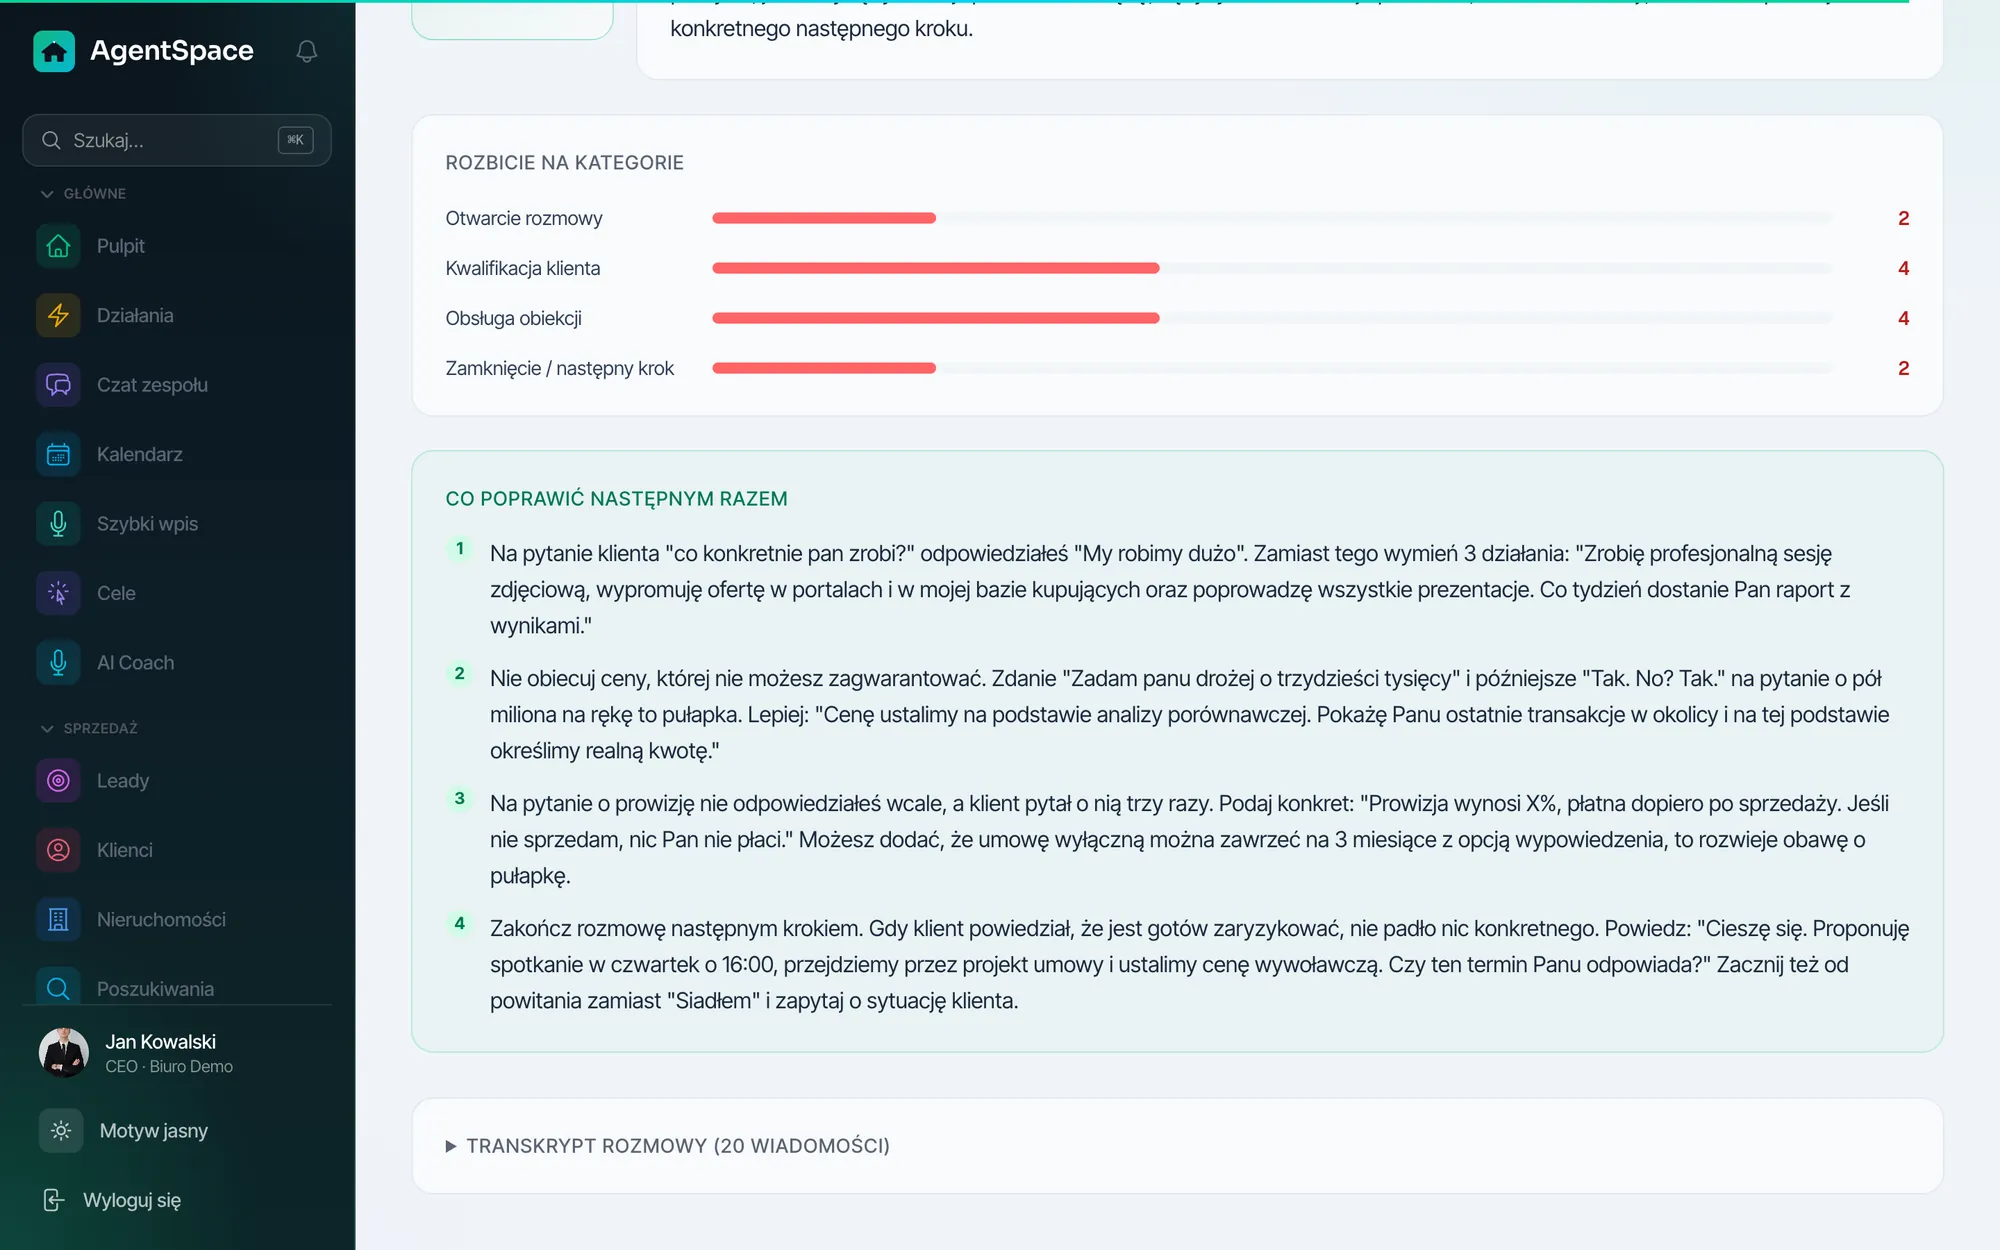
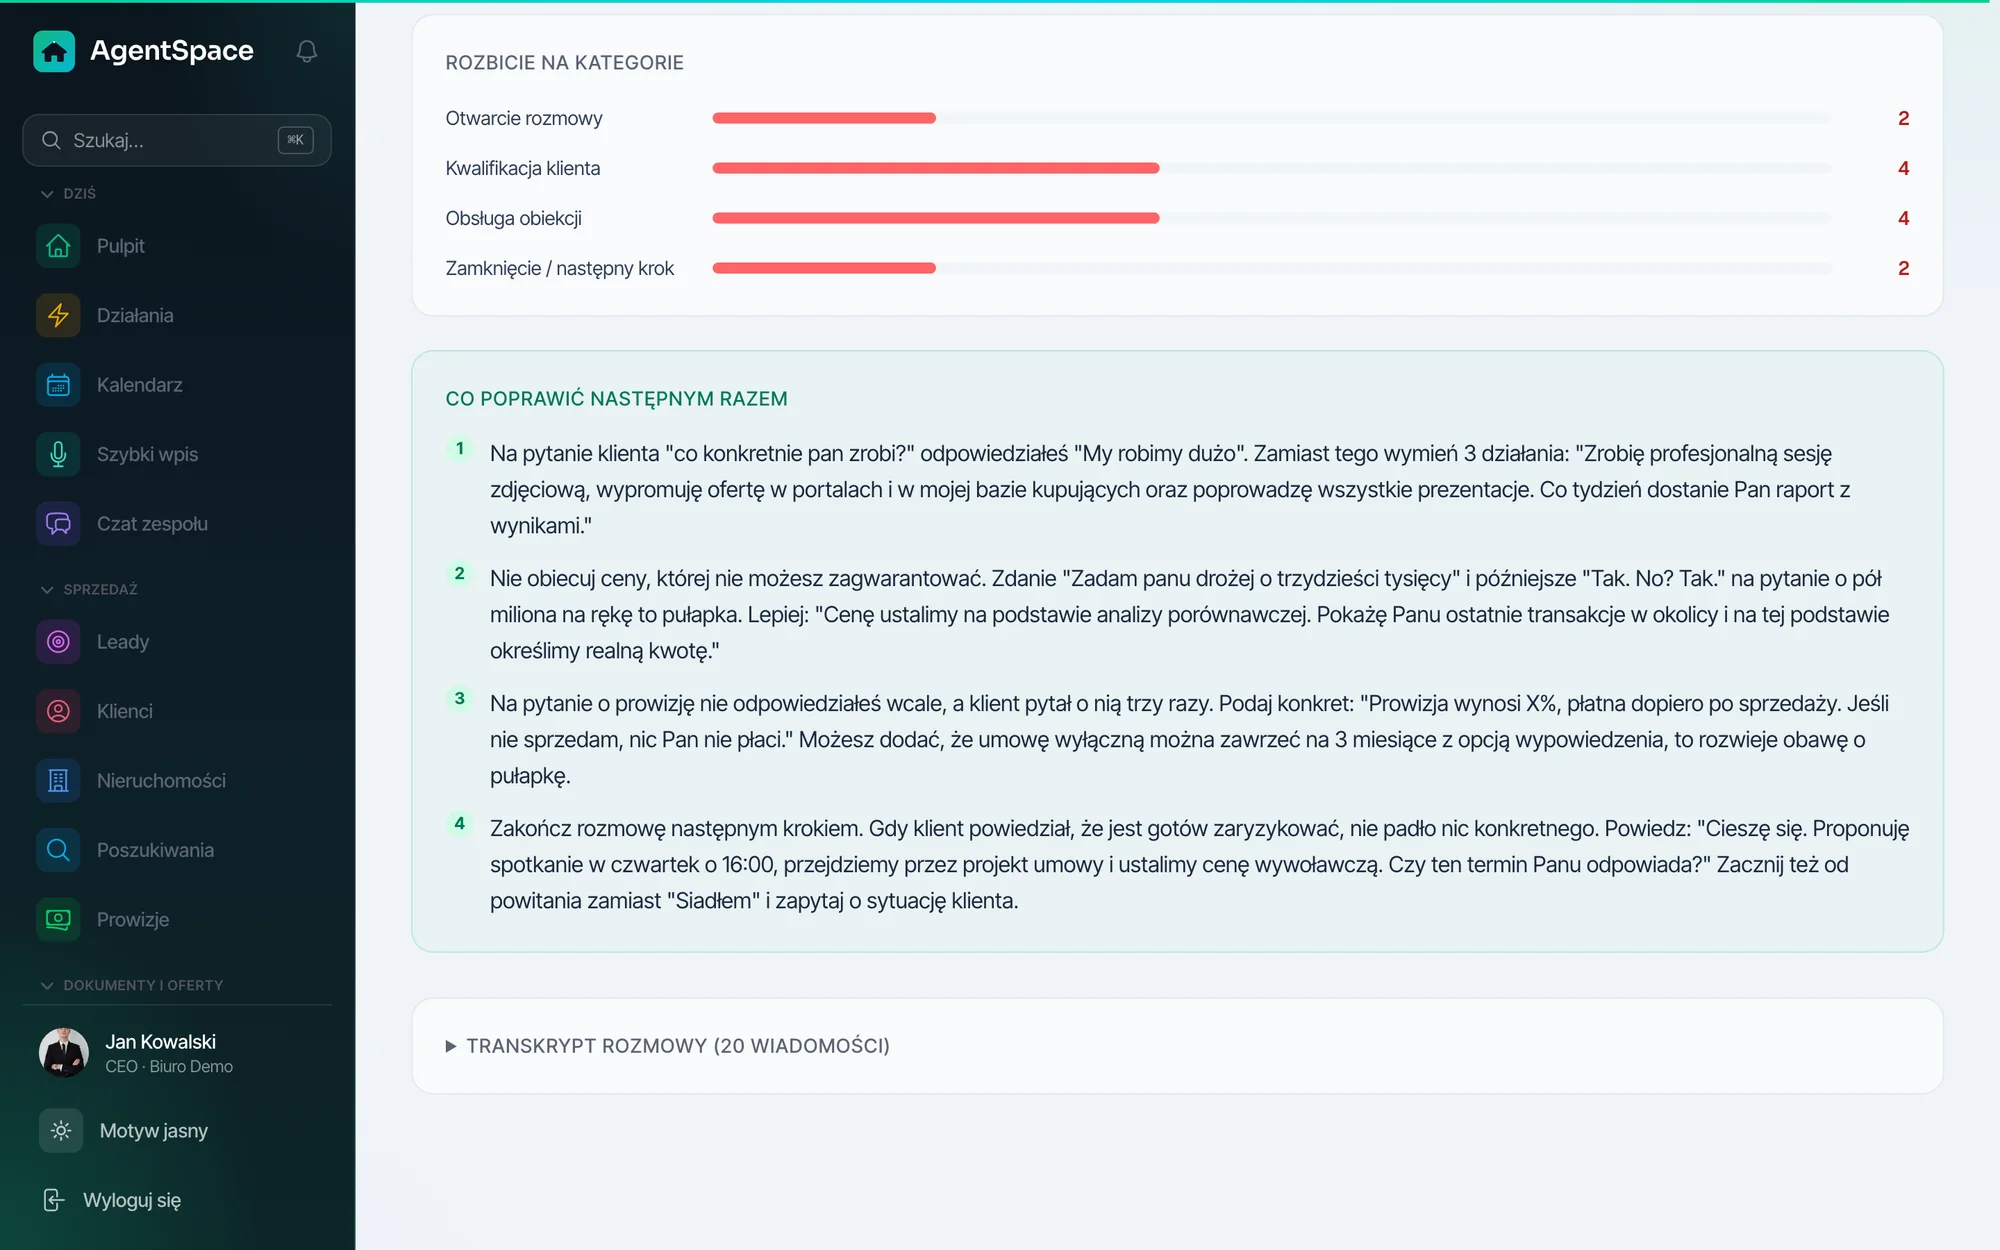
Strona: nowe zrzuty aplikacji (nowe menu, pulpit z Priorytetami, dane bez zer) + moduł Pulpit w sekcji modułów

diff --git a/lib/marketing/nowa-strona.ts b/lib/marketing/nowa-strona.ts
@@ -194,6 +194,7 @@ function pl(dni: number): NowaStrona {
       etykieta: "Cały program",
       tytul: "I wszystko, czego biuro używa na co dzień.",
       lista: [
+        { nazwa: "Pulpit", tytul: "Rano wiesz, do kogo dzwonić.", tekst: "Priorytety na dziś: ocena każdego klienta od 0 do 100, powód, dlaczego dziś, i kroki etapu. Notatka, przypomnienie i spotkanie bez zmiany ekranu.", zrzut: "pulpit" },
         { nazwa: "Klienci", tytul: "Klienci na tablicy etapów.", tekst: "Przeciągasz kartę, gdy klient idzie dalej. Historia kontaktu, zgody RODO i zadania są przy kliencie.", zrzut: "tablica" },
         { nazwa: "Oferty", tytul: "Oferty biura na mapie.", tekst: "Wspólna baza ofert ze zdjęciami, ceną i etapem sprzedaży. Każdą widać na mapie miasta.", zrzut: "oferty" },
         { nazwa: "Kalendarz", tytul: "Tydzień agenta na jednym ekranie.", tekst: "Telefony, prezentacje i zadania na osi czasu. Przeciągasz wpis, żeby zmienić termin.", zrzut: "kalendarz" },
@@ -412,6 +413,7 @@ function en(dni: number): NowaStrona {
       etykieta: "The whole app",
       tytul: "And everything an agency uses every day.",
       lista: [
+        { nazwa: "Dashboard", tytul: "In the morning you know who to call.", tekst: "Today's priorities: every client scored from 0 to 100, the reason it matters today, and the steps of the stage. Note, reminder and meeting without leaving the screen.", zrzut: "pulpit" },
         { nazwa: "Clients", tytul: "Clients on a stage board.", tekst: "Drag the card when a client moves forward. Contact history, GDPR consents and tasks live on the client.", zrzut: "tablica" },
         { nazwa: "Listings", tytul: "Agency listings on a map.", tekst: "A shared listing base with photos, price and sales stage. Every listing on the city map.", zrzut: "oferty" },
         { nazwa: "Calendar", tytul: "An agent's week on one screen.", tekst: "Calls, viewings and tasks on a timeline. Drag an entry to change the date.", zrzut: "kalendarz" },
